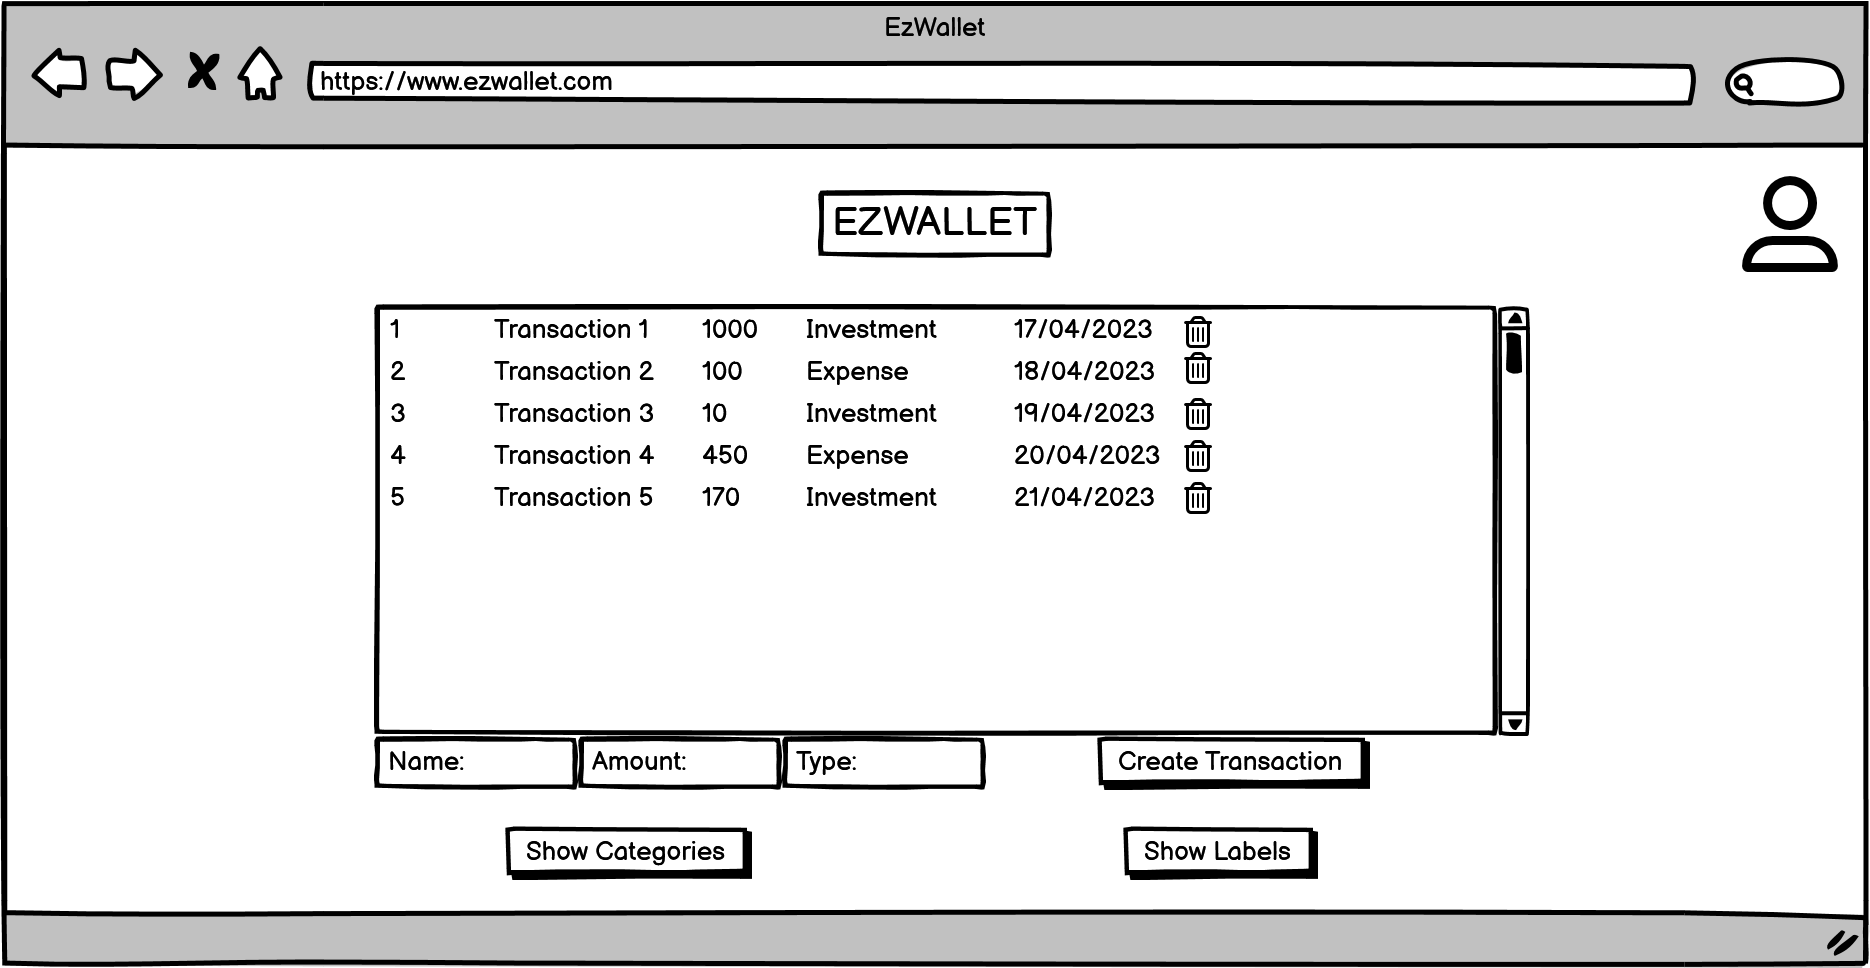
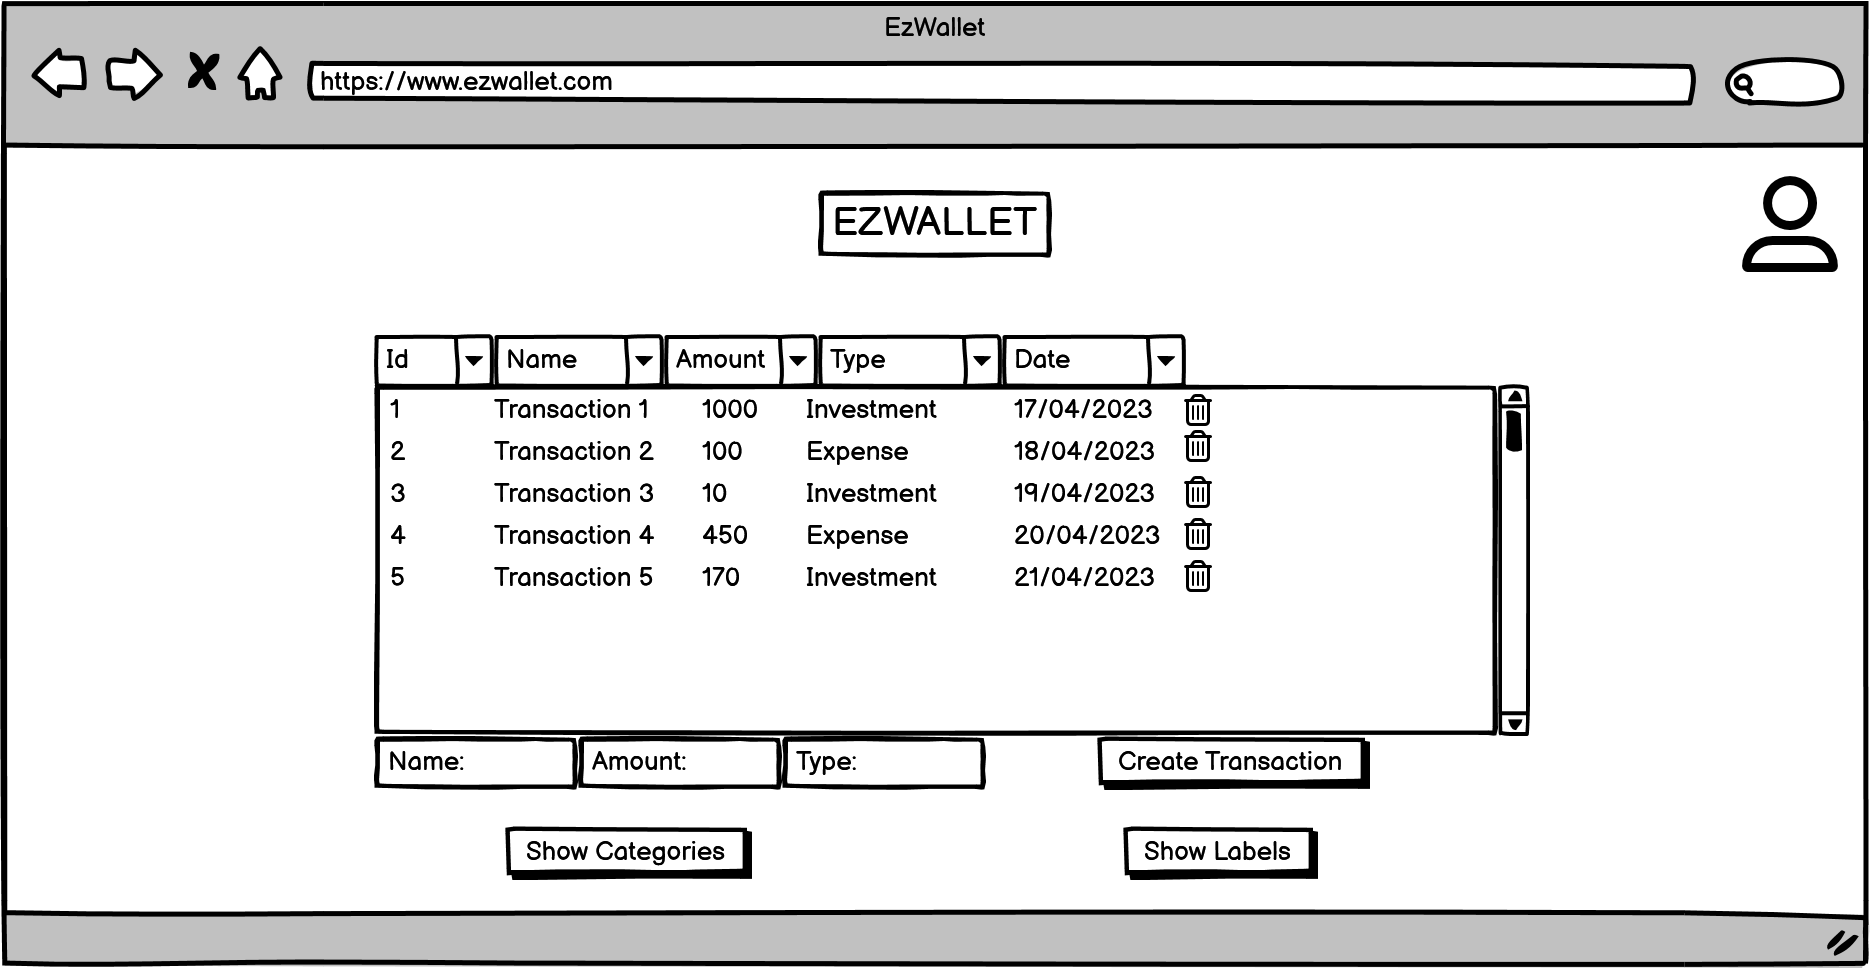
Finished Estimation and Gui_v2

diff --git a/GUIPrototypeV2.md b/GUIPrototypeV2.md
@@ -17,7 +17,7 @@ From here the User can enter E-Mail, Password. He can:
 The non-registered User enters Username, E-Mail, Password and Confirm Password. After that, by clicking on the "Sign Up" button the User can go to the [HOME PAGE USER](#home-page-user).
 ![image info](./code/gui_v2/CreateAccount.png)
 # HOME PAGE USER
-From here the User can see all the transactions. Here he can add a Transaction by clicking on "Create Transaction" button. He can also go to:<br>
+From here the User can see all the transactions. Here he can add a Transaction by clicking on "Create Transaction" button. <br>In addition, he can change the visualization order by clicking on the "Sort Icon" on the corresponding column. <br>He can also go to:<br>
 1) [USER SETTINGS](#user-settings) by clicking on the settings icon.
 2) [MANAGE CATEGORIES](#manage-categories) by clicking on the "Show Categories" button.
 3) [MANAGE LABELS](#manage-labels) by clicking on the "Show Labels" button.   
@@ -25,7 +25,7 @@ From here the User can see all the transactions. Here he can add a Transaction b
   
 ![image info](./code/gui_v2/HomePageUser.png)
 # HOME PAGE ADMINISTRATOR
-From here the Administrator can see all the transactions. Here he can add a Transaction by clicking on "Create Transaction" button. He can also go to:<br>
+From here the Administrator can see all the transactions. Here he can add a Transaction by clicking on "Create Transaction" button.<br>In addition, he can change the visualization order by clicking on the "Sort Icon" on the corresponding column. <br> He can also go to:<br>
 1) [USER SETTINGS](#user-settings) by clicking on the settings icon.
 2) [USERS INFORMATION](#users-information) by clicking on the "GetUsers" button.
 3) [MANAGE CATEGORIES](#manage-categories) by clicking on the "Show Categories" button.
@@ -56,14 +56,14 @@ He can go to:
 ![image info](./code/gui_v2/ModifyPassword.png)
 
 # MANAGE CATEGORIES
-From here the User can see all the categories. He can also add a category by clicking on the "Create Category" button or cancel a category by clicking on the "Trash" icon . He can  go to:<br>
+From here the User can see all the categories. He can also add a category by clicking on the "Create Category" button or cancel a category by clicking on the "Trash" icon .<br>In addition, he can change the visualization order by clicking on the "Sort Icon" on the corresponding column. <br> He can  go to:<br>
 1) [USER SETTINGS](#user-settings) by clicking on the settings icon.
 2) [HOME PAGE USER](#home-page-user) by clicking on the "Return Home" button if he is a normal user.
 3) [HOME PAGE ADMINISTRATOR](#home-page-administrator) by clicking on the "Return Home" button if he is an administrator.
 
 ![image info](./code/gui_v2/ManageCategories.png)
 # MANAGE LABELS
-From here the User can see all the labels. He can also go to:<br>
+From here the User can see all the labels.<br>In addition, he can change the visualization order by clicking on the "Sort Icon" on the corresponding column. <br> He can also go to:<br>
 1) [USER SETTINGS](#user-settings) by clicking on the settings icon.
 2) [HOME PAGE USER](#home-page-user) by clicking on the "Return Home" button if he is a normal user.
 3) [HOME PAGE ADMINISTRATOR](#home-page-administrator) by clicking on the "Return Home" button if he is an administrator.

diff --git a/EstimationV2.md b/EstimationV2.md
@@ -35,9 +35,17 @@ Consider the EZWallet  project in FUTURE version (as proposed by the team), assu
 ### 
 |         Activity name    | Estimated effort (person hours)   |             
 | ----------- | ------------------------------- | 
-| | |
+| Defining Stakeholders | 1 |
+| Context Diagram and Interfaces | 1 |
+| Stories and Personas | 1 |
+| Functional and Non Functional Requirement | 1 |
+| Use Cases and Scenario | 3 |
+| Design Documents | 1 |
+| code | 2 |
+| tests | 5 |
 ###
-Insert here Gantt chart with above activities
+![image info](./code/images_v2/Gantt_table.png)
+![image info](./code/images_v2/Gantt.png)
 
 # Summary
 
@@ -45,9 +53,9 @@ Report here the results of the three estimation approaches. The  estimates may d
 
 |             | Estimated effort                        |   Estimated duration |          
 | ----------- | ------------------------------- | ---------------|
-| estimate by size | 13,6 |
-| estimate by product decomposition | 15 |
-| estimate by activity decomposition | 15 |
+| estimate by size | 13,6 |  0,085 calendar weeks |
+| estimate by product decomposition | 15 | 0,094 calendar weeks |
+| estimate by activity decomposition | 15 | 0,094 calendar weeks |
 
 
 

diff --git a/TimeSheet.md b/TimeSheet.md
@@ -14,7 +14,7 @@ These figures will not be used to evaluate neither the project nor the team, the
 | apr 3 - 9 | 21 | | | | | | | |
 | apr 10 - 16| 8 | 4 | | | | | | | 
 | apr 17 - 23| 11 | 12 | 6 | | | | | | 
-| apr 24 - apr 30 | | | | | | | | | 
+| apr 24 - apr 30 | 10 | 2 | | | | | | | 
 | may 1 - 7  | | | | | | | | | 
 | may 8 - 14| | | | | | | | | 
 | may 15 - 21| | | | | | | | | 

diff --git a/EstimationV1.md b/EstimationV1.md
@@ -47,6 +47,7 @@ Consider the EZWallet  project in CURRENT version (as received by the teachers),
 | code | 12 |
 | tests | 38 |
 ###
+## Gantt Diagram, in calendar weeks (Assume team of 4 people, 8 hours per day).
 ![image info](./code/images/Gantt_table.png)
 ![image info](./code/images/Gantt.png)
 
